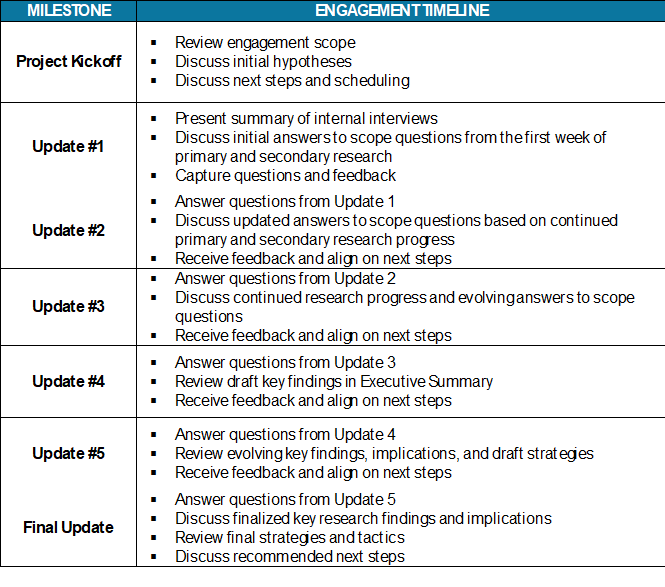
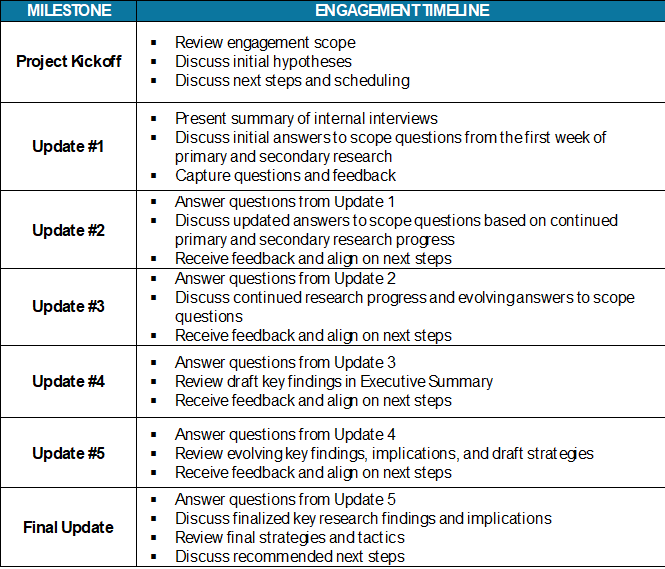
project4

diff --git a/_projects/4_project.md b/_projects/4_project.md
@@ -1,8 +1,8 @@
 ---
 layout: page
-title: IoTG Market Modeling
-description: Identified system architecture, attach, install, refresh, and growth rates for system groups across the healthcare, biopharmaceutical, industrial, and energy segments
-img: /assets/img/project1shunt.jpg
+title: Payer Engagement Strategy
+description: Revamped a leading pharmaceutical company's payer engagement strategy as it moves from primary care to specialty care
+img:
 importance: 4
 category: work
 related_publications: false
@@ -10,30 +10,31 @@ related_publications: false
 
 ## Project Overview
 
-A Fortune 500 med tech company is evaluating new eye care segments as potential areas for new growth. They’re a global leader in vision and are looking to leverage their vision expertise to build capabilities within the glaucoma market as a potential area of growth. They lack any high-potential glaucoma assets in the pipeline, but the market is an interesting adjacency given its high growth, high unmet need, and alignment with the company’s capabilities and growth leads. In particular, they are interested in the opportunity to potentially leverage their polymer capabilities within the glaucoma space, but also understand the opportunity in the glaucoma surgical space.
+A Fortune 500 pharmaceutical company is broadening their portfolio into immunology, rare diseases and specialty pharma with a focus on central nervous system (CNS) assets. With this expansion, the Payor Sales division of the company will encounter new customer segments, different needs from reimbursement channels, evolving distribution channels, and other areas that are new to the company. In addition to portfolio expansion, market dynamics such as the COVID-19 pandemic, and emerging commercial/sales team models, will likely impact their Payor Sales in ways it would like to better understand.
 
-This 3-month project overview details the research process to evaluate the glaucoma opportunity and prioritize potential technology platforms:
+This 3-month project overview details the research process to assess the new and evolving dynamics of selling to payor customers and implications to their Payor Sales strategy:
 
-##### Global Glaucoma Surgical Landscape Assessment
+##### Project Objectives
 
--   Assess the glaucoma therapy landscape, evaluate drivers and barriers to growth in the glaucoma surgical vision market
-
-##### Global Glaucoma Prioritization Strategy Assessment
-
--   Assess the glaucoma therapy landscape in the vision care glaucoma market(s)
--   Understand the clinical and customer unmet need within glaucoma, with a specific focus on extended-release therapies and drug/delivery landscape
--   Evaluate value proposition of potential solutions and prioritize emerging disease intervention opportunities in the glaucoma space, understand synergies with existing capabilities
--   Develop a recommended glaucoma portfolio development strategy focused on inorganic growth opportunities
+-   Identify current capabilities of Payor Sales team
+-   Assess the evolving needs and expectations of payor customers
+    -   Including impact of COVID-19 and other identified macro trends for the industry
+-   Understand payors’ needs and expectations for new therapeutic areas
+    -   Including immunology, rare diseases, and specialty pharma (e.g., CNS)
+    -   Including new reimbursement and distribution channels
+    -   Including new stakeholders/influencers
+-   Benchmark the best practices, activities, and structure and responsibilities of sales organizations at comparable industry competitors
+-   Recommend strategies to evolve the company's payor sales and engagement approach
 
 ## Responsibilities
 
-I was the sole researcher working on the Japanese market landscape, including analysis and interviews with stakeholders in Japanese. Additionaly, I collaborated with 2 other researchers working on other regions in the project. During the weekly updates and the final presentation, I was also responsible for presenting my section of the research directly to the client.
+I was 1 of 3 researchers working on the project, including analysis and interviews with key opinion leaders (KOLs). Additionally, I took conducted research in the competitive landscape of branded and generic incumbent therapies across the relevant CNS and immunotherapy areas. This also included how comparable pharmaceutical companies are partnered with and selling to payors. During the weekly updates and the final presentation, I was also responsible for presenting my section of the research directly to the client.
 
-My primary responsibilies included the creation of the Japanese interview script, reaching out to relevant external stakeholders, conducting interviews in both English and Japanese, analysis of quotes and secondary research, and the creation of presentation slides for my research.
+My primary responsibilies included reaching out to relevant external stakeholders, conducting interviews, analysis of quotes and secondary research, and the creation of presentation slides for my research.
 
 <div class="row">
     <div class="col-sm mt-3 mt-md-0">
-        {% include figure.liquid loading="eager" path="assets/img/p1table1.png" title="Engagement Timeline" class="img-fluid rounded z-depth-1" %}
+        {% include figure.liquid loading="eager" path="assets/img/p4table1.png" title="Engagement Timeline" class="img-fluid rounded z-depth-1" %}
     </div>
 </div>
 <div class="caption">
@@ -42,29 +43,22 @@ My primary responsibilies included the creation of the Japanese interview script
 
 ## User Research
 
-As shown in the engagement timeline, the first step in the project was the creation of 9 project scope questions that covered questions the company sought to answer in their landscape assessment and glaucoma prioritization. Afterwards, an interview guide was created in order to conduct 9 semi-structured interviews with internal employees. These interviews were conducted to determine exisiting capabilities as well as thoughts on expanding into the glaucoma landscape.
+As shown in the engagement timeline, the first step in the project was the creation of 8 project scope questions that covered questions the company sought to answer in their new customer segments for the Payor Sales division. Afterwards, an interview guide was created to conduct the semi-structured interviews with internal employees. These interviews were conducted to determine the thoughts, feelings, and ideas of the workers currently in the Payor Sales division.
 
-The information gathered from this data was assigned to the relevant scope questions and used to create a more well-informed interview guide was external semi-structured interviews. This guide was then used to interview a total of 26 outside sources (12 in the United States, 5 in the United Kingdom, and 9 in APAC). Participants ranged from Ophthamlogists, Research Directors, and Professors across all 3 main regions.
-
-<div class="row">
-    <div class="col-sm mt-3 mt-md-0">
-        {% include figure.liquid loading="eager" path="assets/img/p1table2.png" title="Engagement Timeline" class="img-fluid rounded z-depth-1" %}
-    </div>
-</div>
-<div class="caption">
-    Prioritization Process
-</div>
+The information gathered from this data helped inform the subsequent interview guide for external KOLs as well as shape how the project was tackled. This guide was then used to interview a total of 15 outside sources. Participants ranged from National Payors, Regional Payors, Federal Payors, Pharmaceutical Manufacturers, and Analysts.
 
 ## Analysis
 
-For the Japanese market landscape, I conducted a multi-faceted research approach that combined qualitative and quantitative methods. I started by performing a deep dive into available secondary sources, including market reports, academic journals, and government health statistics. These sources helped me gauge the overall market size, growth potential, and competitive landscape. From there, I created an interview guide tailored to the Japanese healthcare ecosystem to ensure the insights gathered were relevant to the market. To gather more targeted insights, I reached out to a mix of stakeholders, including ophthalmologists, glaucoma specialists, and key opinion leaders (KOLs) in Japan.
+Research began with a deep dive into available secondary sources, including publically available pipelines of competitors, program guides, expected job responsibilities of competitors in similar roles, and market insights. An interview guide was made within the research team as well as insights from the client on specific questions they wanted to ask. These sources helped gauge what steps the client would need to take to facilitate the growth and introduction of these added customer segments.
 
-The interview process was structured to reveal unmet needs within the Japanese glaucoma space. To assess gaps in the market, I designed questions to probe specific areas like patient adherence to treatments, adoption of new technologies, and the overall patient journey. Additionally, I analyzed competitor activity through secondary research on major players in the glaucoma treatment market. I researched what innovations were being introduced by local Japanese companies as well as multinational corporations. This helped to frame the competitive landscape and pinpoint where opportunities for innovation existed.
+Following the completion of research, an additional 3 weeks were also scheduled for stategy development. This time was held for larger discussions with the company as well as the consolidation of final recommendations. Best practices and competitive landscaping for pharmaceutical manufacturers in terms of internal structure, strategy, and payor engagement were consolidated from research and finalized at this time.
 
 ## Reflections and Takeaways
 
-I got a chance to sharpen both my research and client presentation skills as well as perform work in a foreign language. It was an invaluable experience in conducting research on a region where I was the only one assigned.
+Research into the payor space was both a new and exciting avenue of research for me. It was an unfamiliar field that not many researchers have the opportunity to look into. The experience also allowed me to improve my client presentation skills and expand my knowledge base.
 
--   Engaging with Real Stakeholders: Conducting interviews with healthcare professionals, including ophthalmologists and KOLs, gave me direct exposure to real-world perspectives. I was able to tailor the interview questions to capture insights about the unmet needs and trends in the Japanese glaucoma space.
--   Cultural and Linguistic Adaptation: Working in the Japanese market required not just technical expertise, but also sensitivity to cultural and language differences. Conducting interviews in Japanese helped ensure more accurate and authentic responses. This experience emphasized the importance of understanding local market dynamics and adjusting research methods to fit the specific context.
--   Collaboration and Time Management: I worked closely with two other researchers covering different regions in different timezones. Ensuring that we maintained consistent communication and shared our findings in a timely manner was vital to the project's completion. Presenting my section of the research to the client during weekly updates and in the final presentation also highlighted the need for clear and concise communication to convey complex information effectively.
+-   **Exploring a New Field**: Researching the payor sales space, especially in the context of new therapeutic areas like immunology and CNS, was an exciting challenge. It expanded my knowledge into an unfamiliar field, allowing me to gain unique insights into how pharmaceutical companies interact with payors
+
+-   **Client-Focused Insights**: Presenting my findings directly to the client helped refine my communication and client-facing skills. I learned how to translate complex research into strategic recommendations that aligned with the client's evolving needs
+
+-   **Understanding Market Dynamics**: This project gave me the opportunity to delve into macro trends affecting the pharmaceutical industry, such as the impact of COVID-19, and how they influence payor expectations

diff --git a/_projects/3_project.md b/_projects/3_project.md
@@ -47,7 +47,7 @@ As shown in the engagement timeline, the first step in the project was the creat
 
 ## Analysis
 
-I started by researching similar technologies as well as industry thoughts on IMC through available secondary sources. This included public forums, academic journals, and market resports. These sources helped me gauge the overall market size, growth potential, and competitive landscape. Additionally, this also informed me about IMC's devlopmental status. This aided me in the creation of the interview guide used for the interviewed KOLs mentioned preivously. 
+I started by researching similar technologies as well as industry thoughts on IMC through available secondary sources. This included public forums, academic journals, and market resports. These sources helped me gauge the overall market size, growth potential, and competitive landscape. Additionally, this also informed me about IMC's devlopmental status. This aided me in the creation of the interview guide used for the interviewed KOLs mentioned preivously.
 
 The interview process was structured to reveal thoughts within working engineers in the industry. To assess gaps in the market, I designed questions to probe specific areas like their thoughts on the scalability of IMC, the effect of similar technologies such as NVMEs and near-memory computing, potential use cases, and the perceived increased effectiveness of IMC technology. Additionally, I analyzed competitor activity through secondary research on major players in the industry. I researched what innovations were being introduced by multinational corporations. This helped to frame the competitive landscape and pinpoint where opportunities for innovation existed.
 
@@ -55,10 +55,10 @@ The interview process was structured to reveal thoughts within working engineers
 
 I got a chance to sharpen both my research and client presentation skills as well as perform work in the technology space. The research I conducted was in an unfamiliar technology sector and aided me in expanding my knowledge purview
 
-- Expanding Expertise in a New Technology Sector: Working on this project introduced me to the IMC space, which was a new and unfamiliar field. Conducting in-depth research on emerging technologies like IMC and related alternatives broadened my technical understanding and exposed me to cutting-edge innovations in real-time data processing
+-   Expanding Expertise in a New Technology Sector: Working on this project introduced me to the IMC space, which was a new and unfamiliar field. Conducting in-depth research on emerging technologies like IMC and related alternatives broadened my technical understanding and exposed me to cutting-edge innovations in real-time data processing
 
-- Client-Focused Research and Presentation: Presenting research findings directly to the client each week improved my communication skills, particularly in distilling complex technical concepts into actionable insights. This helped me gain confidence in sharing strategic recommendations with senior stakeholders
+-   Client-Focused Research and Presentation: Presenting research findings directly to the client each week improved my communication skills, particularly in distilling complex technical concepts into actionable insights. This helped me gain confidence in sharing strategic recommendations with senior stakeholders
 
-- Developing Interviewing Skills with Industry Experts: Conducting interviews with key opinion leaders in the technology space helped refine my interviewing techniques, as I had to ask highly technical questions to professionals with deep expertise
+-   Developing Interviewing Skills with Industry Experts: Conducting interviews with key opinion leaders in the technology space helped refine my interviewing techniques, as I had to ask highly technical questions to professionals with deep expertise
 
-- Analyzing Market and Competitive Landscape: I honed my skills in competitive analysis by identifying key players and emerging trends within the IMC ecosystem. This was crucial in helping the client understand the market dynamics and where their potential advantages lay
+-   Analyzing Market and Competitive Landscape: I honed my skills in competitive analysis by identifying key players and emerging trends within the IMC ecosystem. This was crucial in helping the client understand the market dynamics and where their potential advantages lay

diff --git a/_projects/Archive/4_project.md b/_projects/Archive/4_project.md
@@ -1,9 +1,9 @@
 ---
 layout: page
-title: 3D Surgical Medical Device Opportunity Assessment
-description: Identified and prioritized go-to-market strategy for a Fortune 500 medical device company in the 3D surgical space, including conducting competitive analysis
+title: IoTG Market Modeling
+description: Identified system architecture, attach, install, refresh, and growth rates for system groups across the healthcare, biopharmaceutical, industrial, and energy segments
 img: /assets/img/project1shunt.jpg
-importance: 6
+importance: 4
 category: work
 related_publications: false
 ---

diff --git a/_projects/5_project.md b/_projects/5_project.md
@@ -1,8 +1,8 @@
 ---
 layout: page
-title: Payer Engagement Strategy
-description: Revamped a leading pharmaceutical company's payer engagement strategy as it moves from primary care to specialty care
-img: /assets/img/project1shunt.jpg
+title: 3D Surgical Medical Device Opportunity Assessment
+description: Identified and prioritized go-to-market strategy for a Fortune 500 medical device company in the 3D surgical space, including conducting competitive analysis
+img: /assets/img/p5title.jpg
 importance: 5
 category: work
 related_publications: false
